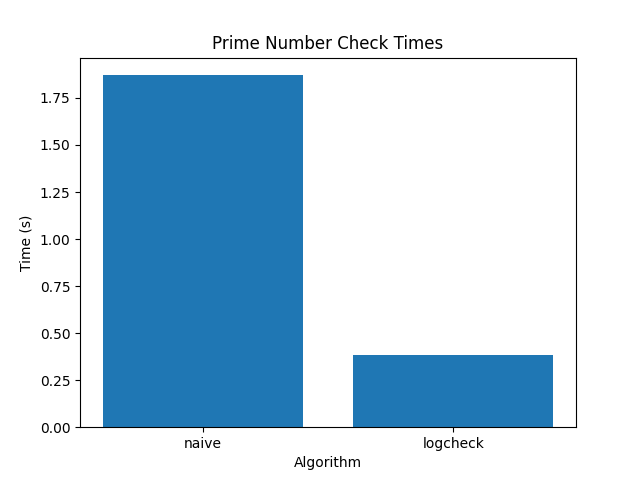
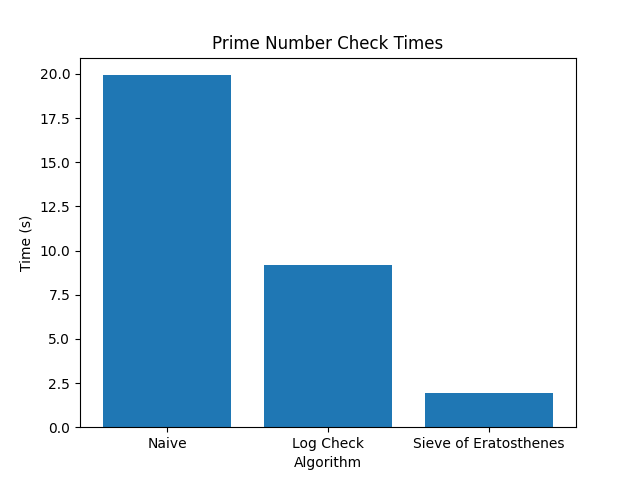
Added times to bar readout

diff --git a/primeTests.py b/primeTests.py
@@ -70,6 +70,11 @@ def main():
     plt.title("Prime Number Check Times")
     plt.xlabel("Algorithm")
     plt.ylabel("Time (s)")
+
+    # Add the times to the bars
+    for i in range(len(names)):
+        plt.text(x=i, y=times[i], s=times[i], ha="center")
+
     plt.savefig("primeTests.png")
 
 
